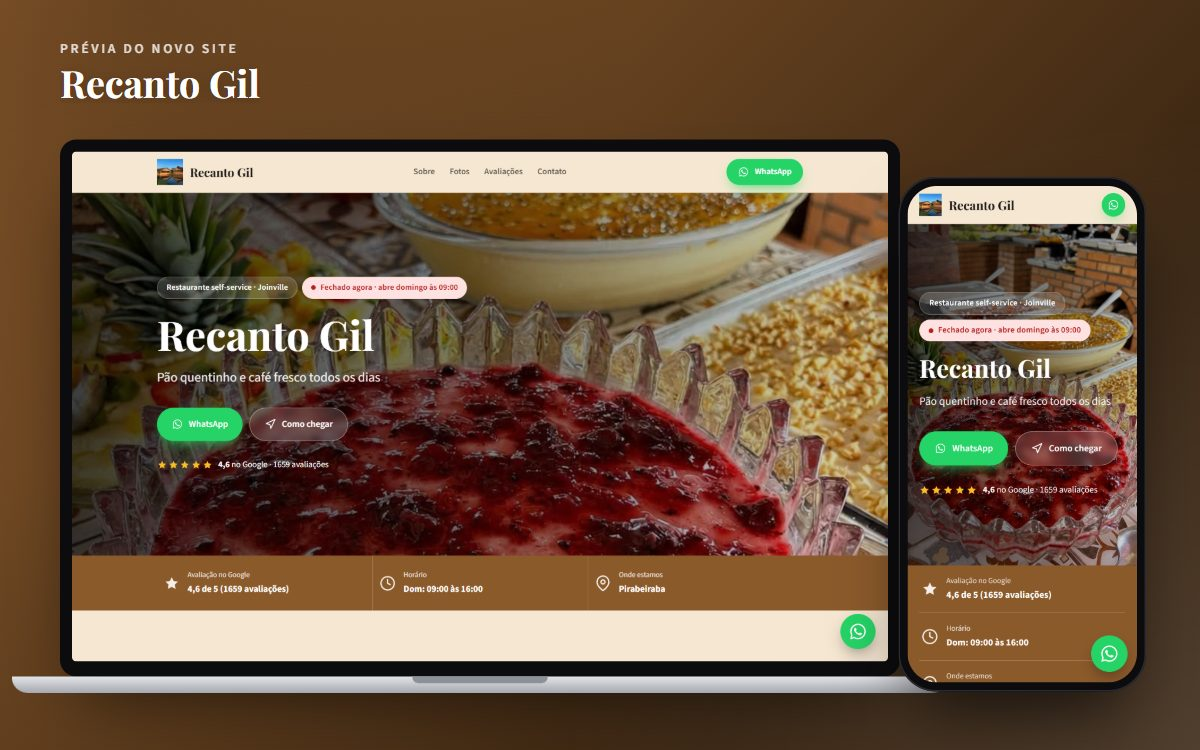
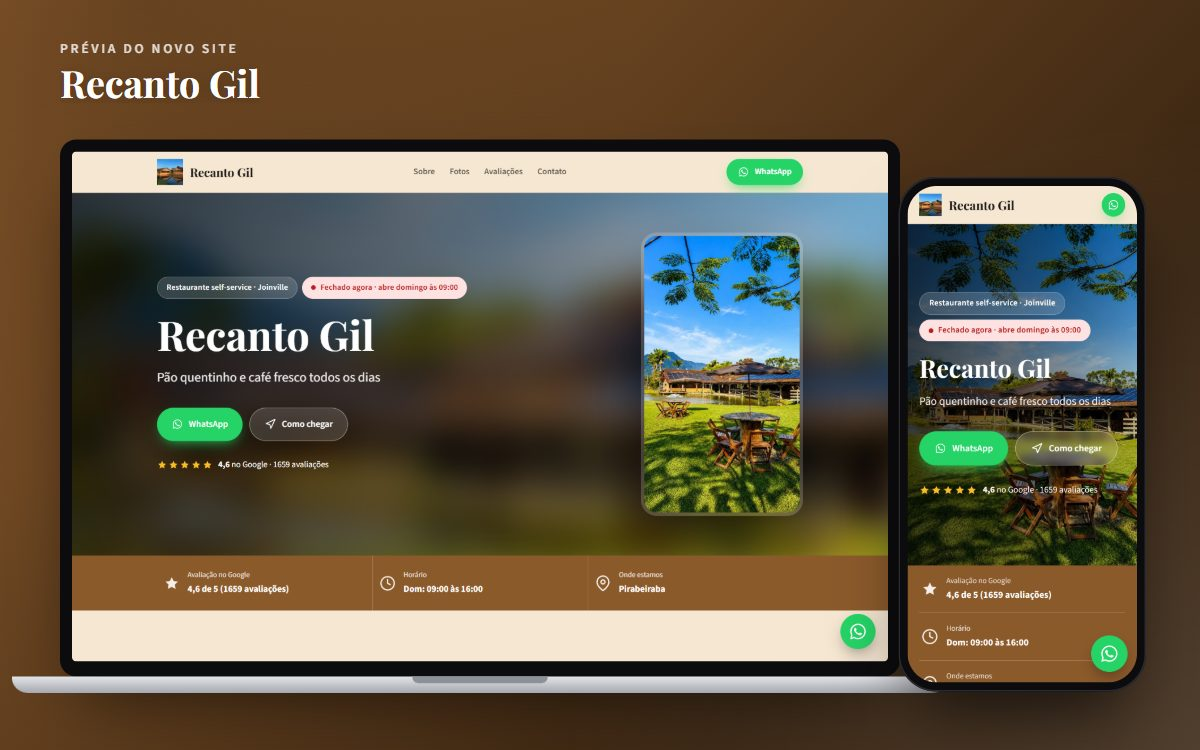
Prévia: Recanto Gil

diff --git a/recanto-gil-joinville/index.html b/recanto-gil-joinville/index.html
@@ -7,7 +7,7 @@
 <meta name="description" content="Pão quentinho e café fresco todos os dias">
 <meta name="robots" content="noindex, nofollow">
 <meta name="theme-color" content="#8b5a2b">
-<meta name="versao" content="20261012012140">
+<meta name="versao" content="20261012012227">
 <link rel="icon" href="logo.png">
 <meta property="og:type" content="website">
 <meta property="og:title" content="Recanto Gil: prévia do novo site">
@@ -118,6 +118,16 @@
     display: grid; place-items: center; padding: 36px; box-shadow: 0 40px 80px -30px rgba(0,0,0,.5); z-index: 2; }
   .hero-logo img { max-height: 100%; object-fit: contain; }
   .hero.cheio .conteudo { position: relative; z-index: 3; max-width: 700px; padding: 96px 0; }
+  /* capa em pé ou pequena (as do Instagram e do Facebook): no computador, o fundo vira a própria foto desfocada
+     e a foto aparece inteira e nítida numa moldura ao lado do texto, em vez de esticada e cortada */
+  .hero-quadro { display: none; }
+  @media (min-width: 861px) {
+    .hero.estreita .hero-foto { filter: blur(28px) saturate(1.15); transform: scale(1.15); }
+    .hero.estreita .container { display: flex; align-items: center; justify-content: space-between; gap: 48px; }
+    .hero.estreita .hero-quadro { display: block; position: relative; z-index: 3; flex: 0 0 auto; height: min(500px, 72vh); border-radius: 28px;
+      overflow: hidden; border: 6px solid rgba(255,255,255,.16); box-shadow: 0 40px 90px -30px rgba(0,0,0,.75); }
+    .hero.estreita .hero-quadro img { display: block; height: 100%; width: auto; max-width: 520px; object-fit: cover; cursor: zoom-in; }
+  }
 
   .hero.dividido { padding: 72px 0 88px; background: radial-gradient(circle at 100% 0%, #e3ceb4 0%, transparent 55%), var(--fundo); }
   .hero.dividido .container { display: grid; grid-template-columns: 1.05fr .95fr; gap: 56px; align-items: center; }
@@ -437,8 +447,18 @@
 </div>
 
     </div>
+    <div class="hero-quadro"><img src="banner.jpg" data-capa data-ampliar alt="Recanto Gil"></div>
   </div>
 </section>
+<script>(function () {
+  var bloco = document.currentScript.previousElementSibling, img = bloco && bloco.querySelector('img[data-capa]');
+  if (!img) return;
+  function ver() {
+    var l = img.naturalWidth, a = img.naturalHeight;
+    if (l && (l / a < 1.25 || l < 1000)) bloco.classList.add('estreita');
+  }
+  if (img.complete) ver(); else img.addEventListener('load', ver);
+})();</script>
 
 
 <section class="faixa">
